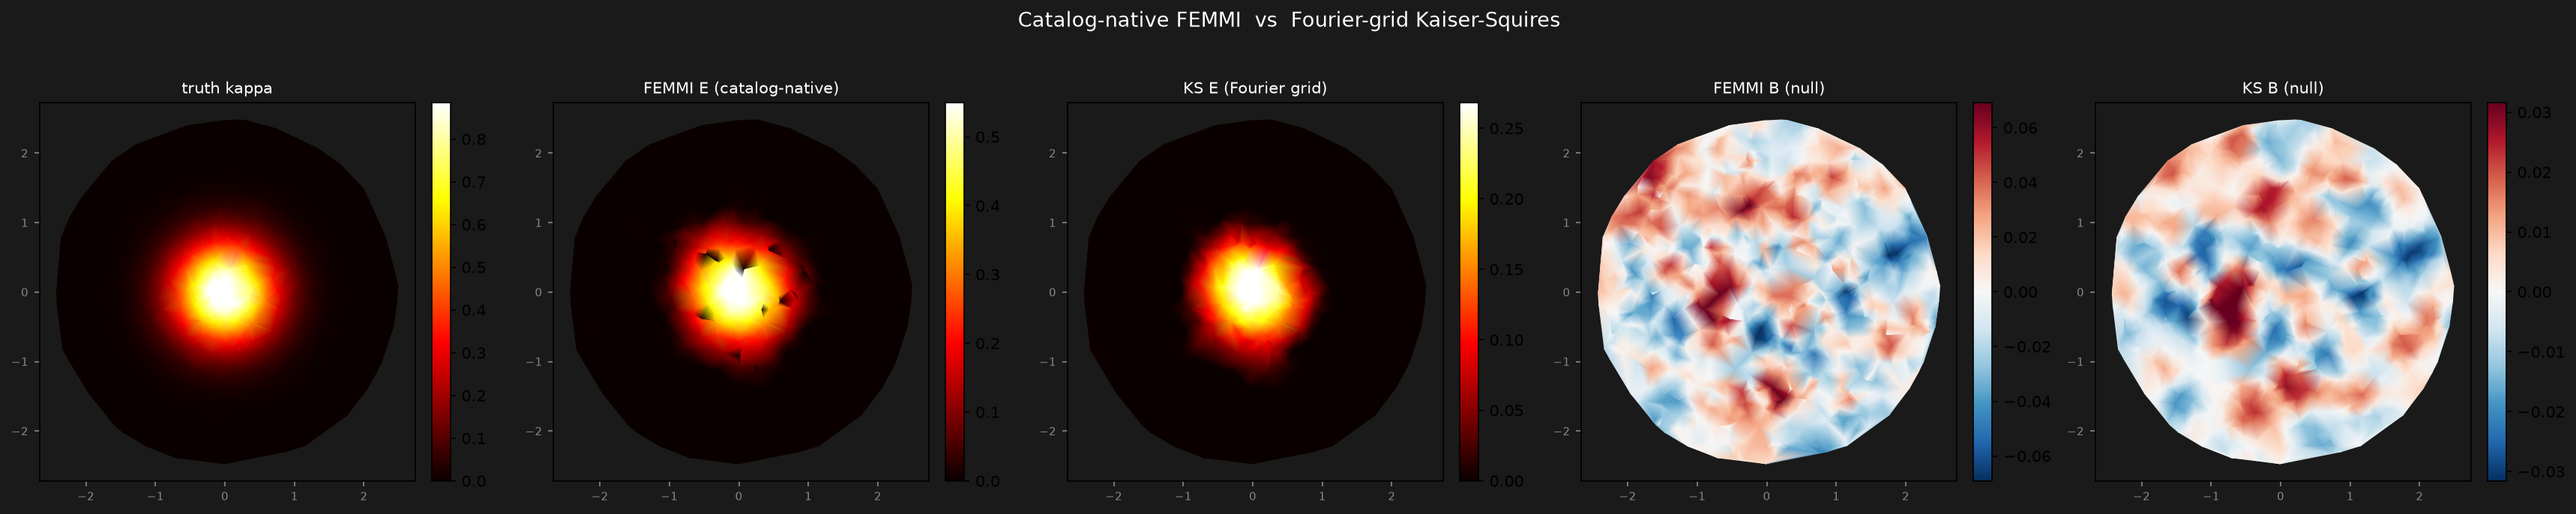
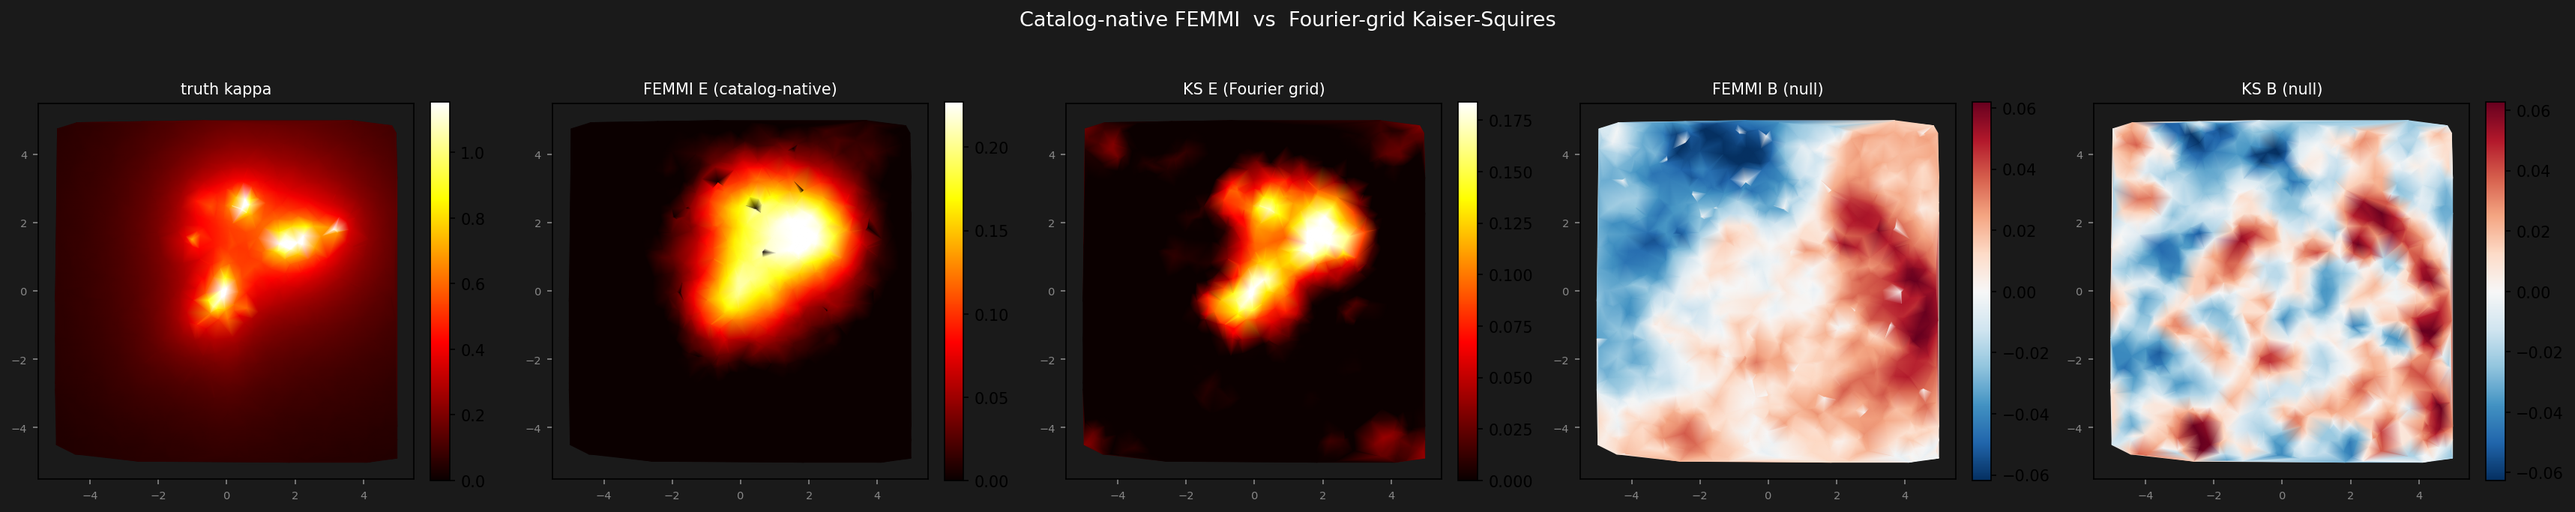
dropping strong lensing core from the frontier data

diff --git a/examples/catalog_comparison.py b/examples/catalog_comparison.py
@@ -59,7 +59,8 @@ def _rms(a):
 
 
 def run_head_to_head(cat, wiener_length=None, grid_size=64, ks_smoothing_px=2.0,
-                     n_boundary=96, use_morozov=True, lam_reg=1e-2, maxiter=400):
+                     n_boundary=96, use_morozov=True, lam_reg=1e-2, maxiter=400,
+                     noise_source='mad'):
     x, y, g1, g2 = cat['x'], cat['y'], cat['g1'], cat['g2']
     weight = cat.get('weight')
     truth  = cat.get('kappa_true')
@@ -69,10 +70,11 @@ def run_head_to_head(cat, wiener_length=None, grid_size=64, ks_smoothing_px=2.0,
         wiener_length = 0.2 * R
 
     # ---- FEMMI catalog-native (E-mode), plus its B-mode null (rotated shear) --
-    print("\n[FEMMI] catalog-native FEM-BEM MAP ...")
+    print(f"\n[FEMMI] catalog-native FEM-BEM MAP (noise_source={noise_source}) ...")
     fem = reconstruct_catalog(x, y, g1, g2, weight=weight, center=center,
                               n_boundary=n_boundary, wiener_length=wiener_length,
                               use_morozov=use_morozov, lam_reg=lam_reg,
+                              noise_source=noise_source,
                               maxiter=maxiter, verbose=True)
     print("[FEMMI] B-mode null (45-deg-rotated shear) ...")
     femB = reconstruct_catalog(x, y, g2, -np.asarray(g1), weight=weight, center=center,
@@ -100,8 +102,10 @@ def run_head_to_head(cat, wiener_length=None, grid_size=64, ks_smoothing_px=2.0,
             cc = np.corrcoef(k[m], truth[m])[0, 1]
             return l2, cc
         l2f, ccf = score(kfem); l2k, cck = score(kks)
-        print(f"  FEMMI : L2={l2f:.3f}  corr={ccf:+.3f}")
-        print(f"  KS    : L2={l2k:.3f}  corr={cck:+.3f}")
+        kt_peak = float(np.nanmax(truth[both]))
+        print(f"  region: {int(both.sum())} galaxies, kappa_true peak={kt_peak:.2f}")
+        print(f"  FEMMI : L2={l2f:.3f}  corr={ccf:+.3f}  peak_rec={np.nanmax(kfem[both]):.2f}")
+        print(f"  KS    : L2={l2k:.3f}  corr={cck:+.3f}  peak_rec={np.nanmax(kks[both]):.2f}")
         winner = "FEMMI" if l2f < l2k else "KS"
         print(f"  -> lower-L2 winner: {winner}")
     agree = np.corrcoef(kfem[both], kks[both])[0, 1]
@@ -118,28 +122,34 @@ def run_head_to_head(cat, wiener_length=None, grid_size=64, ks_smoothing_px=2.0,
 def make_figure(res, path):
     x, y = res['x'], res['y']
     tri  = mtri.Triangulation(x, y)
-    panels = [("FEMMI E (catalog-native)", res['kfem'], "hot"),
-              ("KS E (Fourier grid)",      res['kks'], "hot"),
-              ("FEMMI B (null)",           res['kfemB'], "RdBu_r"),
-              ("KS B (null)",              res['kksB'], "RdBu_r")]
+    e_panels = [("FEMMI E (catalog-native)", res['kfem']),
+                ("KS E (Fourier grid)",      res['kks'])]
     if res['truth'] is not None:
-        panels.insert(0, ("truth kappa", res['truth'], "hot"))
+        e_panels.insert(0, ("truth kappa", res['truth']))
+    b_panels = [("FEMMI B (null)", res['kfemB']), ("KS B (null)", res['kksB'])]
+
+    # Shared scales so amplitude is comparable across panels. The E scale is
+    # driven by the truth (or reconstructions) at the 98th percentile, so a
+    # residual strong-lensing cusp does not wash out the whole colour range.
+    e_ref = res['truth'] if res['truth'] is not None else res['kfem']
+    e_vmax = float(np.nanpercentile(np.abs(e_ref), 98)) or 1.0
+    b_vmax = float(np.nanpercentile(np.abs(np.concatenate(
+        [np.nan_to_num(res['kfemB']), np.nan_to_num(res['kksB'])])), 98)) or 1.0
+
+    panels = ([(t, d, "hot", 0.0, e_vmax) for t, d in e_panels] +
+              [(t, d, "RdBu_r", -b_vmax, b_vmax) for t, d in b_panels])
 
     n = len(panels)
     fig, axes = plt.subplots(1, n, figsize=(4.6 * n, 4.4), facecolor="#1a1a1a")
-    for ax, (title, data, cmap) in zip(axes, panels):
+    for ax, (title, data, cmap, vmin, vmax) in zip(axes, panels):
         ax.set_facecolor("#1a1a1a")
         d = np.nan_to_num(np.asarray(data))
-        if cmap == "RdBu_r":
-            v = np.percentile(np.abs(d), 99); vmin, vmax = -v, v
-        else:
-            vmax = np.percentile(d, 99); vmin = 0.0
         tc = ax.tripcolor(tri, d, cmap=cmap, vmin=vmin, vmax=vmax, shading="gouraud")
         plt.colorbar(tc, ax=ax, fraction=0.046, pad=0.04)
         ax.set_title(title, color="white", fontsize=10)
         ax.set_aspect("equal"); ax.tick_params(colors="#888", labelsize=7)
-    fig.suptitle("Catalog-native FEMMI  vs  Fourier-grid Kaiser-Squires",
-                 color="white", fontsize=13, y=1.03)
+    fig.suptitle("Catalog-native FEMMI  vs  Fourier-grid Kaiser-Squires "
+                 "(shared kappa scale)", color="white", fontsize=13, y=1.03)
     plt.tight_layout()
     fig.savefig(path, dpi=150, bbox_inches="tight", facecolor="#1a1a1a")
     plt.close(fig)
@@ -163,6 +173,16 @@ def main():
     ap.add_argument("--shape-noise", type=float, default=0.10)
     ap.add_argument("--grid-size", type=int, default=64)
     ap.add_argument("--no-morozov", action="store_true")
+    ap.add_argument("--noise-source", choices=["mad", "bmode"], default="bmode",
+                    help="Morozov noise level: MAD (biased high by the signal) "
+                         "or the B-mode floor (recommended, less over-smoothing)")
+    ap.add_argument("--kappa-max", type=float, default=1.0,
+                    help="frontier: drop sources where model kappa exceeds this "
+                         "(the strong-lensing core, invalid for weak shear)")
+    ap.add_argument("--reduced-shear", action="store_true",
+                    help="frontier: emit observable reduced shear g=gamma/(1-kappa)")
+    ap.add_argument("--rmax", type=float, default=None,
+                    help="frontier: restrict sources to this radius (arcmin)")
     args = ap.parse_args()
 
     if args.frontier:
@@ -170,9 +190,13 @@ def main():
                                     pixscale_arcsec=args.pixscale,
                                     downsample=args.downsample)
         cat = field_to_catalog(field, n_gal=args.n_gal,
-                               shape_noise=args.shape_noise, seed=1)
+                               shape_noise=args.shape_noise,
+                               kappa_max=args.kappa_max,
+                               reduced_shear=args.reduced_shear,
+                               rmax_arcmin=args.rmax, seed=1)
         print(f"  sampled {len(cat['x'])} galaxies from the model field "
-              f"(shape_noise={args.shape_noise})")
+              f"(shape_noise={args.shape_noise}, kappa_max={args.kappa_max}, "
+              f"reduced_shear={args.reduced_shear})")
     elif args.fits:
         cat = _load_fits(args.fits, hdu=args.hdu, flip_g2=args.flip_g2)
     else:
@@ -182,7 +206,8 @@ def main():
                                         shape_noise=args.shape_noise, seed=1)
 
     res = run_head_to_head(cat, grid_size=args.grid_size,
-                           use_morozov=not args.no_morozov)
+                           use_morozov=not args.no_morozov,
+                           noise_source=args.noise_source)
     out = os.path.join(os.path.dirname(__file__), "..", "outputs",
                        "fig_catalog_comparison.png")
     make_figure(res, out)

diff --git a/femmi/catalog.py b/femmi/catalog.py
@@ -337,12 +337,21 @@ def load_frontier_model(data_dir, source="psi", pixscale_arcsec=None,
 
 
 def field_to_catalog(field, n_gal=3000, shape_noise=0.05, rmax_arcmin=None,
-                     seed=0):
+                     kappa_max=1.0, reduced_shear=False, seed=0):
     """
     Sample a gridded shear field (from load_frontier_model) at random points to
     emulate a galaxy catalog: irregular positions, interpolated shear, optional
     shape noise, and the local convergence truth. Returns a dict compatible with
     reconstruct_catalog / run_head_to_head (x, y, g1, g2, weight, kappa_true).
+
+    kappa_max     : drop galaxies where the model kappa exceeds this (the
+        strong-lensing / multiple-image core, where the weak-shear approximation
+        that both FEMMI and KS assume is invalid). None keeps everything.
+        Real background sources are also not observed through the cluster core.
+    reduced_shear : emit the observable reduced shear g = gamma / (1 - kappa)
+        instead of gamma. More physical, but only meaningful once the kappa>~1
+        core is excluded (it diverges at kappa = 1).
+    rmax_arcmin   : also restrict to a central radius.
     """
     rng = np.random.default_rng(seed)
     X, Y = field["X"].ravel(), field["Y"].ravel()
@@ -350,6 +359,9 @@ def field_to_catalog(field, n_gal=3000, shape_noise=0.05, rmax_arcmin=None,
     kap = field["kappa_true"].ravel()
 
     keep = np.isfinite(g1) & np.isfinite(g2) & np.isfinite(kap)
+
+    if kappa_max is not None:
+        keep &= kap < kappa_max
     if rmax_arcmin is not None:
         keep &= np.hypot(X, Y) <= rmax_arcmin
     idx_pool = np.where(keep)[0]
@@ -357,12 +369,17 @@ def field_to_catalog(field, n_gal=3000, shape_noise=0.05, rmax_arcmin=None,
 
     x, y = X[take], Y[take]
     e1, e2 = g1[take].copy(), g2[take].copy()
+
+    kt = kap[take]
+    if reduced_shear:
+        denom = np.clip(1.0 - kt, 1e-3, None)
+        e1, e2 = e1 / denom, e2 / denom
     if shape_noise > 0:
         e1 += rng.normal(0, shape_noise, x.size)
         e2 += rng.normal(0, shape_noise, x.size)
 
     return dict(x=x, y=y, g1=e1, g2=e2, weight=np.ones(x.size),
-                kappa_true=kap[take], center=(0.0, 0.0),
+                kappa_true=kt, center=(0.0, 0.0),
                 field_radius=float(np.hypot(x, y).max()))
 
 

diff --git a/README.md b/README.md
@@ -199,9 +199,17 @@ kappa_ks = kaiser_squires_binned(flat.x, flat.y, flat.g1, flat.g2,
 # catalog, and compare reconstructions to the known kappa ground truth.
 from femmi.catalog import load_frontier_model, field_to_catalog
 field = load_frontier_model("data/abell2744/cats_v4.1", source="psi", downsample=6)
-cat   = field_to_catalog(field, n_gal=3000, shape_noise=0.05)
+cat   = field_to_catalog(field, n_gal=3000, shape_noise=0.05, kappa_max=1.0)
 # examples/catalog_comparison.py --frontier data/abell2744/cats_v4.1
 ```
+
+Notes for the cluster maps: (1) use `source="psi"` -- `source="kappa"` synthesises
+shear by FFT and imposes *periodic* boundaries, KS's own assumption, which
+unfairly favours KS; (2) `kappa_max` drops the strong-lensing core (kappa >~ 1),
+where weak-shear reconstruction is invalid and both methods are out of scope;
+(3) prefer `--noise-source bmode` -- MAD on the raw shear is biased high by the
+huge cluster signal and pushes Morozov to over-smooth (lambda saturates), which
+crushes the recovered amplitude.
 
 ```python
 # Locally refined mesh near a circular mask (e.g. bright cluster core)
